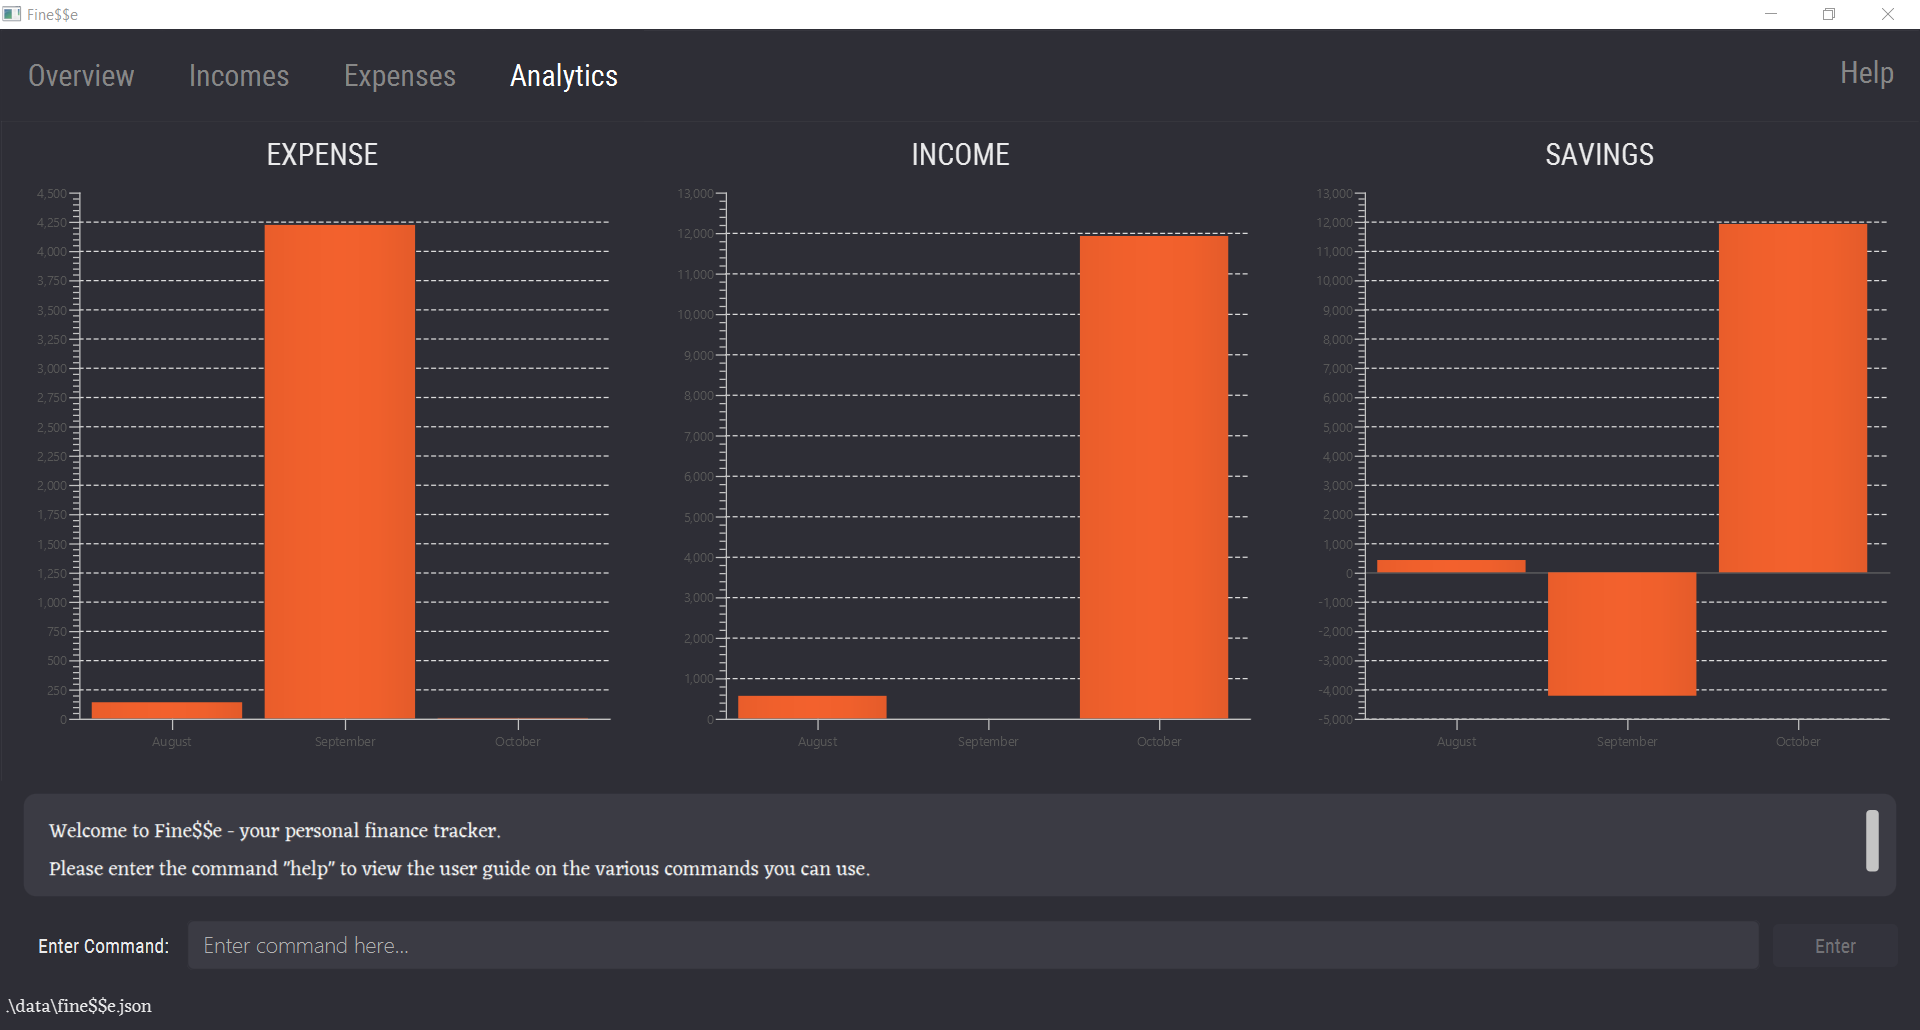
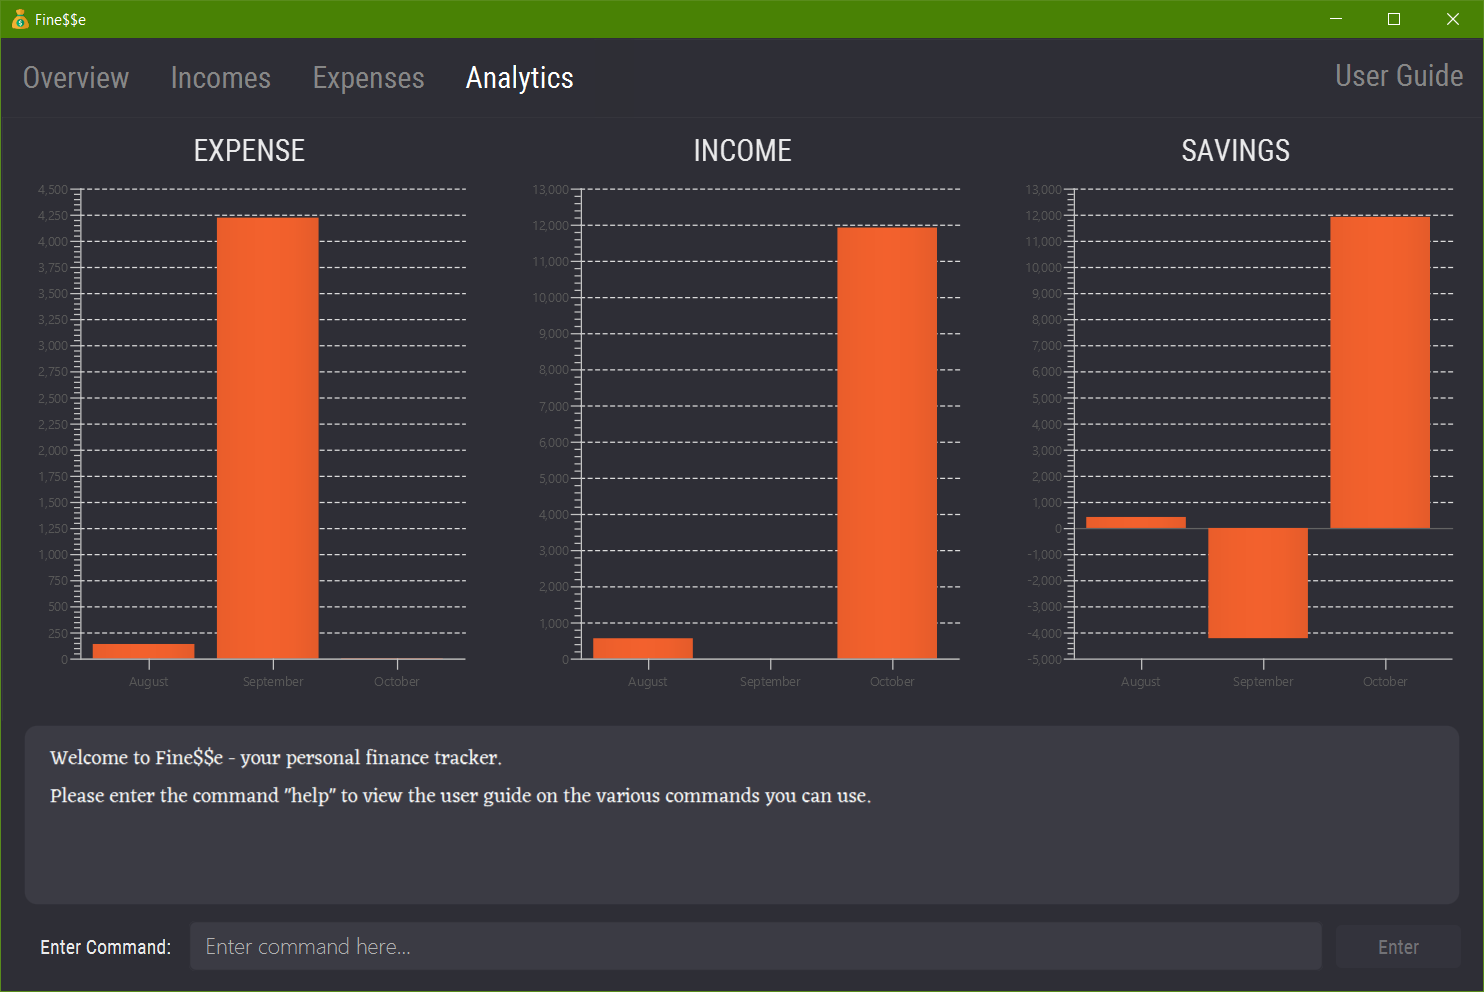
Update user guide screenshots (#235)

diff --git a/docs/UserGuide.md b/docs/UserGuide.md
@@ -98,7 +98,7 @@ The user interface of Fine$$e is divided into 4 tabs, each serving a specific pu
 
 #### 2.2.1 Overview Tab
 
-Displays a list of all recent transactions ([incomes](#44-income)/[expenses](#43-expense)), along with your [expense limit](#47-expense-limit), remaining budget, [savings goal](#48-savings-goal) and savings.
+Displays a list of all recent transactions ([incomes](#44-income)/[expenses](#43-expense)), along with your [expense limit](#47-expense-limit), [savings goal](#48-savings-goal), remaining budget and current savings.
 
 ![Overview Tab](images/userguide/OverviewTab.png)
 
@@ -190,6 +190,9 @@ Expected Outcome:
 ```
 Opened help window.
 ```
+
+![User Guide](images/userguide/UserGuide.png)
+
 The user guide is shown in the application.
 
 ### 4.2 Switch Tabs: `tab`
